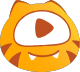
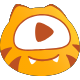
优化图标

diff --git a/src/components/Index.vue b/src/components/Index.vue
@@ -166,7 +166,7 @@ export default {
           name: "阿里邮箱",
           show: true,
           url: "https://mail.aliyun.com/alimail/",
-          icon: "img/ali.gif",
+          icon: "img/alimail.png",
         },
         {
           name: "Gmail",
